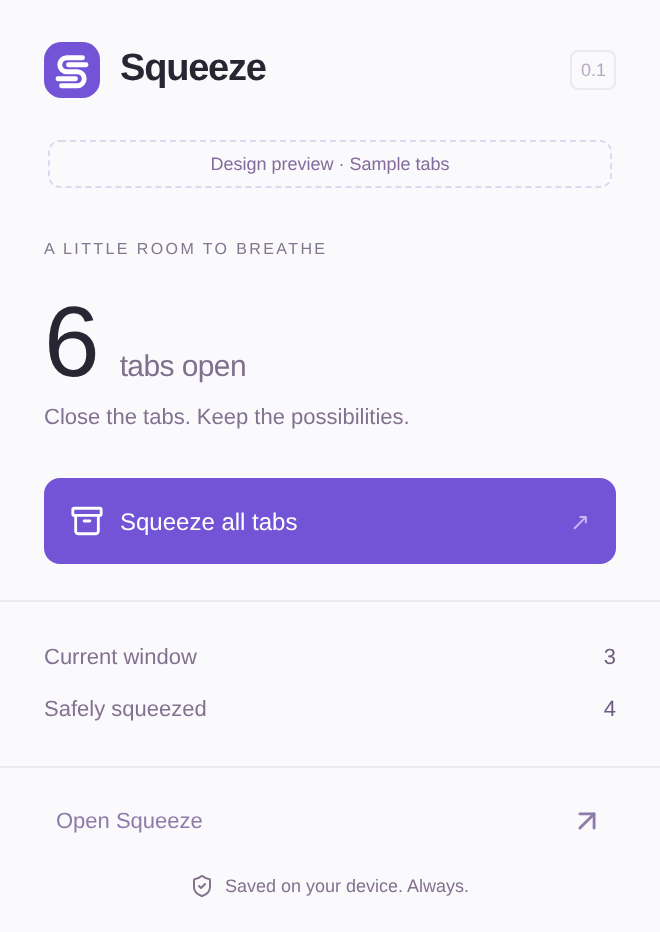
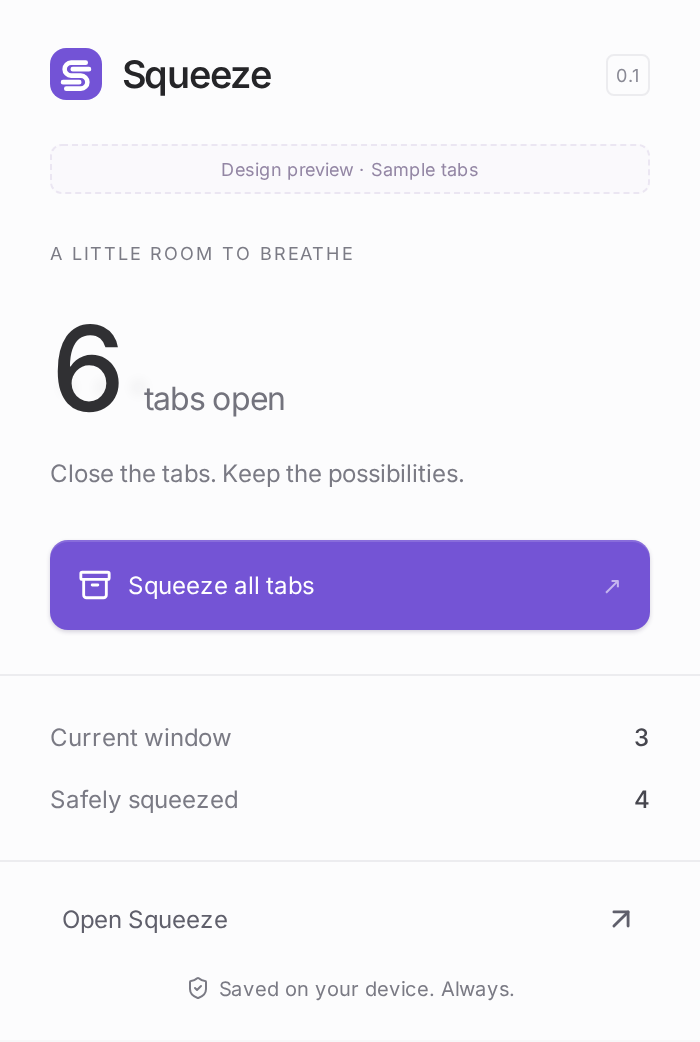
style(ui): refine Inter typography and purposeful motion

diff --git a/src/styles.css b/src/styles.css
@@ -1,3 +1,10 @@
+@font-face{font-family:'Inter Variable';src:url('./fonts/inter-latin-variable.woff2') format('woff2');font-weight:100 900;font-display:swap;font-style:normal}
 :root{font-family:Inter,-apple-system,BlinkMacSystemFont,"Segoe UI",sans-serif;color:#282632;background:#faf9fc;font-synthesis:none;font-size:13px;--purple:#7353d6;--ink:#272330;--muted:#94909f;--line:#ece9f1}*{box-sizing:border-box}body{margin:0}button,input,select{font:inherit}button{cursor:pointer;background:none;border:0;color:inherit;display:inline-flex;align-items:center;gap:8px}button:disabled{cursor:wait;opacity:.5}button:focus-visible,a:focus-visible,input:focus-visible,select:focus-visible{outline:2px solid #8c6ae8;outline-offset:3px}button:hover{color:var(--purple)}a{color:inherit;text-decoration:none}h1,h2,p{margin:0}svg{flex-shrink:0}.app{max-width:620px;min-height:100vh;margin:auto;display:flex;flex-direction:column;background:#faf9fc}.brand{padding:22px 24px 18px;display:flex;align-items:center;justify-content:space-between}.brand-name{display:flex;align-items:center;gap:10px;font-size:19px;font-weight:600;letter-spacing:-.6px}.icon-button{width:28px;height:28px;justify-content:center;border-radius:7px;color:#9b95a5;padding:0}.icon-button:hover{background:#efebf6}.search-box{margin:0 24px 20px;background:#f0edf5;border:1px solid #e9e4f0;border-radius:9px;height:38px;padding:0 11px;color:#9790a3;font-size:12px;text-align:left}.search-box span{flex:1}kbd{font-family:inherit;font-size:10px;border:1px solid #e1dce9;padding:2px 4px;border-radius:4px;color:#9d96aa}.nav{padding:0 16px}.nav-item{padding:11px 13px;width:100%;border-radius:8px;color:#77717f;font-size:12px;margin:1px 0;text-align:left}.nav-item span:nth-child(2){flex:1}.nav-item.active{background:#eee8fc;color:#7353c6}.nav-item .count{font-size:11px;opacity:.8}.category-section{margin:21px 24px 0;padding-bottom:19px;border-bottom:1px solid var(--line)}.section-label{display:flex;align-items:center;justify-content:space-between;color:#a7a0b1;letter-spacing:1px;font-size:9px}.category-chips{display:flex;flex-wrap:wrap;gap:7px;margin-top:5px}.chip{display:inline-flex;border:1px solid var(--line);padding:6px 9px;border-radius:7px;background:#fff;font-size:11px;gap:6px;color:#81788e}.chip.chosen{color:var(--purple);border-color:#d5c7f5;background:#f1ebfd}.dot{height:5px;width:5px;background:#b3a4cb;border-radius:50%}.workspace{padding:25px 24px 80px;flex:1}.workspace-title{display:flex;justify-content:space-between;align-items:center}.workspace h1{font-size:23px;letter-spacing:-.8px;font-weight:550;display:flex;gap:10px;align-items:center}.workspace h1 span{font-size:10px;padding:3px 6px;border-radius:5px;background:#efedf3;color:#9b92a9;font-weight:400;letter-spacing:0}.workspace-title p{font-size:11px;color:#a49bab;line-height:1.6;margin-top:6px}.toolbar{display:flex;gap:12px;align-items:center;margin:22px 0 17px}.inline-search{display:flex;align-items:center;gap:7px;flex:1;color:#aaa2b5}.inline-search input{border:0;background:none;min-width:0;width:100%;outline:none;color:var(--ink);font-size:11px}.inline-search input::placeholder{color:#aaa2b5}.text-button{color:#a195b1;font-size:11px;padding:3px 0}.date-label{font-size:9px;letter-spacing:1px;color:#b0a6bd;margin:16px 0 9px}.tab-list{display:flex;flex-direction:column;gap:7px}.tab-card{position:relative;display:flex;gap:9px;align-items:center;border:1px solid #eeeaf3;background:#fff;padding:14px 10px;border-radius:10px;min-height:68px;box-shadow:0 2px 4px #3b244303;transition:border-color .15s,box-shadow .15s}.tab-card:hover{border-color:#ded5ed;box-shadow:0 4px 12px #35224d07}.tab-card.selected{border-color:#c6b2ee;background:#faf7ff}.select-tab{width:13px;height:13px;border:1px solid #dfdae7;border-radius:4px;padding:0;color:#fff;justify-content:center;flex-shrink:0}.selected .select-tab{background:#8463d5;border-color:#8463d5}.favicon{width:30px;height:30px;border-radius:9px;display:grid;place-items:center;background:#f3f0f7;color:#8e80a5;font-size:12px;font-weight:500;flex-shrink:0}.tab-details{min-width:0;flex:1}.tab-title{font-size:11px;display:block;max-width:100%;text-overflow:ellipsis;white-space:nowrap;overflow:hidden;font-weight:500;padding:0;text-align:left}.tab-meta{display:flex;align-items:center;gap:5px;margin-top:6px;font-size:9px;color:#aaa1b4;min-width:0}.tab-meta span{overflow:hidden;white-space:nowrap;text-overflow:ellipsis}.tab-meta .meta-dot{color:#c9c1d2;flex-shrink:0}.hover-action{opacity:0}.tab-card:hover .hover-action,.hover-action:focus-visible{opacity:1}.starred{color:#aa8a54}.card-menu{position:absolute;right:7px;top:45px;width:220px;z-index:20;border:1px solid #e9e0f2;background:white;padding:7px;border-radius:10px;box-shadow:0 12px 30px #2812421c}.card-menu button,.card-menu a{display:flex;padding:9px;width:100%;text-align:left;font-size:11px;border-radius:5px}.card-menu label{display:flex;justify-content:space-between;align-items:center;font-size:10px;padding:8px}.card-menu select{max-width:130px;font-size:10px;border:1px solid var(--line);padding:4px;background:white;border-radius:5px}.menu-head{display:flex;align-items:center;justify-content:space-between;padding:2px 8px;color:#b1a5bf;font-size:9px}.menu-head button{width:auto}.bottom{display:flex;gap:6px;align-items:center;padding:16px 24px;background:#faf9fc;border-top:1px solid var(--line);font-size:9px;color:#b4acbf}.footer-right{margin-left:auto;font-size:9px;color:#c0b9c8}.local-dot{width:4px;height:4px;background:#a797bd;border-radius:50%}.selection-bar{position:fixed;bottom:18px;left:50%;transform:translateX(-50%);display:flex;align-items:center;gap:12px;min-width:280px;max-width:calc(100% - 32px);background:#fff;border:1px solid #e9e0f6;padding:8px 9px 8px 16px;border-radius:12px;box-shadow:0 6px 35px #3721531a;font-size:11px;z-index:25}.selection-bar>span{flex:1;color:#92869f;white-space:nowrap}.primary{background:var(--purple);color:#fff;border-radius:8px;padding:10px 14px;font-size:11px;justify-content:center}.primary:hover{background:#6546c3;color:white}.notice{display:flex;align-items:center;gap:6px;border-radius:8px;padding:10px;margin:10px 0;font-size:11px;color:#76608e;background:#efe9f7;line-height:1.6}.notice button{margin-left:auto;color:#7650c6}.notice.error{background:#faedf0;color:#a14d61}.empty{text-align:center;padding:50px 22px}.empty-mark{display:grid;place-items:center;margin:auto auto 20px;width:58px;height:58px;border-radius:18px;background:#f0eafa}.empty h2{font-size:17px;font-weight:500;letter-spacing:-.4px}.empty p{font-size:11px;color:#aaa1b4;line-height:1.8;max-width:235px;margin:10px auto 16px}.empty button{margin:auto}.window-actions{display:flex;gap:8px;flex-wrap:wrap}.sessions{display:flex;flex-direction:column;gap:9px}.session-card{width:100%;padding:19px 15px;text-align:left;background:white;border:1px solid var(--line);border-radius:10px;gap:12px;color:#9988ad}.session-card span{flex:1}.session-card strong{font-size:12px;font-weight:500;color:#4c4358;display:block}.session-card small{font-size:10px;display:block;color:#b0a4bc;margin-top:7px}.create-session{justify-content:center;font-size:11px;padding:16px;border:1px dashed #ddd5e8;border-radius:9px;color:#aa9cb8}.overlay{position:fixed;inset:0;background:#20142a50;backdrop-filter:blur(5px);z-index:50;display:flex;justify-content:center;align-items:flex-start;padding:90px 18px 20px;overflow:auto}.palette,.dialog{background:#fff;border-radius:15px;width:100%;max-width:390px;border:1px solid #e8e0f0;box-shadow:0 20px 80px #26173535}.palette-search{display:flex;align-items:center;gap:9px;padding:18px 16px;font-size:12px;color:#8f829f;border-bottom:1px solid var(--line)}.palette-search span{flex:1}.palette-item{display:flex;justify-content:space-between;padding:13px 17px;width:calc(100% - 12px);margin:3px 6px;border-radius:7px;font-size:12px;color:#72617f}.palette-item:hover{background:#f1ecf8}.palette-footer{padding:13px 17px;border-top:1px solid var(--line);font-size:9px;color:#b3a8bf}.dialog{padding:23px}.dialog h2{font-size:20px;font-weight:500;margin:12px 0}.dialog p{font-size:12px;color:#a298ac;line-height:1.7;margin-bottom:15px}.dialog input{width:100%;border:1px solid var(--line);border-radius:8px;padding:11px;color:#665571}.dialog-actions{display:flex;justify-content:flex-end;gap:8px;margin-top:20px;font-size:11px}.dialog-actions .danger{margin-right:auto;color:#b3687f}.preview{text-align:center;margin:0 24px 13px;border:1px dashed #e1d6ef;border-radius:6px;padding:6px;color:#a898b7;font-size:9px}.popup{width:330px;padding-bottom:17px;background:#faf9fc}.popup .brand{padding:21px 22px}.version{font-size:9px;color:#b4a9c1;padding:4px;border:1px solid var(--line);border-radius:4px}.popup-hero{padding:8px 22px 18px}.eyebrow{font-size:8px;letter-spacing:1.2px;color:#b2a6bd}.popup-hero h1{font-size:50px;letter-spacing:-2px;font-weight:500;margin-top:12px;display:flex;gap:12px;align-items:baseline}.popup-hero h1 span{font-size:15px;letter-spacing:-.3px;font-weight:400;color:#a398b1}.popup-hero p{font-size:11px;color:#ab9fb8;margin-top:3px}.squeeze-main{width:100%;margin-top:24px;padding:13px;font-size:12px;justify-content:flex-start}.squeeze-main span{margin-left:auto;color:#c5b6ef}.popup-stats{padding:15px 22px;border-top:1px solid var(--line);border-bottom:1px solid var(--line)}.popup-stats div{display:flex;justify-content:space-between;align-items:center;font-size:11px;color:#a395b1;padding:7px 0}.popup-stats strong{font-size:11px;font-weight:500;color:#6c5d80}.open-panel{width:calc(100% - 44px);margin:17px 22px;justify-content:space-between;font-size:11px;color:#8e7aab}.popup-footer{display:flex;justify-content:center;align-items:center;gap:5px;font-size:9px;color:#b8abc6}.popup .notice{margin:10px 22px}.loading{display:flex;align-items:center;justify-content:center;padding:40px;text-align:center;gap:15px}.loading p{font-size:12px;color:#9d91ab}@media(max-width:380px){.brand{padding:20px}.workspace{padding:24px 18px 90px}.category-section{margin-left:20px;margin-right:20px}.search-box{margin-left:20px;margin-right:20px}.tab-card{gap:7px;padding:13px 8px}.tab-meta{font-size:9px}.footer-right{font-size:8px}}@media(prefers-reduced-motion:reduce){*,*::before,*::after{animation:none!important;transition:none!important;scroll-behavior:auto!important}}
 /* Secondary text stays quiet without becoming hard to read. */
 .workspace-title p,.tab-meta,.empty p,.dialog p{color:#776d83}.section-label,.date-label,.eyebrow{color:#83768f}.search-box,.inline-search,.inline-search input::placeholder{color:#85778f}.bottom,.footer-right,.popup-footer,.popup-hero p,.popup-stats div{color:#82718f}.preview{color:#846b9b}.popup-hero h1 span{color:#80708e}.text-button{color:#7f6b95}.tab-title{font-size:12px}.tab-meta{font-size:10px}
+/* Motion study: neutral foundations, bundled Inter, short purposeful transitions. */
+:root{font-family:'Inter Variable',Inter,-apple-system,BlinkMacSystemFont,'Segoe UI',sans-serif;background:#f7f7f8;color:#252528;--purple:#7454d5;--ink:#252528;--line:#ececef;--muted:#75757d}
+.app,.popup{background:#fcfcfd}.brand-name{font-weight:560;letter-spacing:-.8px}.search-box{background:#f5f5f7;border-color:#eeeeef;color:#73737c}.nav-item{color:#707078}.nav-item.active{background:#f0ebfa}.workspace-title p,.tab-meta,.empty p,.dialog p{color:#777780}.tab-card{border-color:#ececee;box-shadow:0 1px 2px #00000003}.tab-card:hover{border-color:#dbdbe2;box-shadow:0 3px 8px #00000004}.favicon{background:#f4f3f6;color:#6b627b}.section-label,.date-label,.eyebrow{color:#7b7b85}.chip{color:#73737d;border-color:#e8e8ec}.bottom,.footer-right,.popup-footer,.popup-hero p,.popup-stats div{color:#7a7a84}.primary{box-shadow:0 1px 2px #32225430,inset 0 1px 0 #ffffff25;transition:transform 160ms cubic-bezier(.2,.8,.2,1),background 160ms ease}.primary:active{transform:scale(.98)}.primary svg{transition:transform 200ms cubic-bezier(.2,.8,.2,1)}.primary:hover svg{transform:translateY(-1px)}.icon-button{color:#92929c}.preview{background:#faf9fc;border-color:#ebe6f2;color:#9386a4}.popup{width:350px;padding-bottom:20px}.popup .brand{padding:24px 25px 22px}.popup-hero{padding:8px 25px 22px}.popup-hero h1{font-size:59px;letter-spacing:-3px;font-weight:480;line-height:1.15;margin-top:17px;font-variant-numeric:tabular-nums}.popup-hero h1 span{font-size:16px;letter-spacing:-.45px;color:#73737d}.popup-hero p{font-size:12px;line-height:1.6;margin-top:9px}.squeeze-main{margin-top:24px;padding:14px;font-size:12px;border-radius:9px}.popup-stats{padding:15px 25px}.popup-stats div{padding:8px 0;font-size:12px}.popup-stats strong{color:#46464e;font-size:12px}.open-panel{margin:19px 25px;width:calc(100% - 50px);font-size:12px;color:#5f5f6b}.popup-footer{font-size:10px}.eyebrow{letter-spacing:1px;font-size:9px}.version{color:#898994}.popup .preview{margin:0 25px 12px}.popup .notice{margin:12px 25px}.popup .brand svg{width:26px;height:26px}
+/* Full app lives in its own Chrome tab; compact panel is an optional second surface. */
+.dashboard-body{background:#f5f5f7}.dashboard{display:grid;grid-template-columns:230px minmax(0,1fr);grid-template-rows:80px 56px 1fr auto;max-width:1280px;min-height:100vh;margin:0 auto;background:#fff;position:relative}.dashboard .brand{grid-column:1;grid-row:1;padding:28px 25px 23px;border-right:1px solid var(--line)}.dashboard .preview{grid-column:2;grid-row:1;justify-self:end;align-self:center;margin:0 38px;padding:6px 10px}.dashboard .search-box{grid-column:1;grid-row:2;margin:0 18px 18px;font-size:11px}.dashboard .nav{grid-column:1;grid-row:3;align-self:start;padding:4px 14px}.dashboard .nav-item{padding:12px 11px;font-size:12px}.dashboard .category-section{grid-column:1;grid-row:3;align-self:start;margin:255px 23px 0;border:0}.dashboard .category-chips{flex-direction:column;align-items:flex-start;gap:8px;margin-top:14px}.dashboard .category-chips .chip{border:0;background:none;font-size:12px;padding:7px 4px}.dashboard .workspace{grid-column:2;grid-row:1/4;border-left:1px solid var(--line);padding:64px 52px 120px}.dashboard .workspace-title{margin-top:28px}.dashboard .workspace h1{font-size:32px;letter-spacing:-1.2px;font-weight:520}.dashboard .workspace-title p{font-size:13px;margin-top:10px}.dashboard .toolbar{margin:30px 0 20px;padding:11px 0;border-bottom:1px solid var(--line)}.dashboard .inline-search input{font-size:12px}.dashboard .text-button{font-size:12px}.dashboard .date-label{margin:22px 0 13px;font-size:10px}.dashboard .tab-list{gap:7px}.dashboard .tab-card{padding:17px 16px;border-radius:11px;gap:13px}.dashboard .tab-title{font-size:13px}.dashboard .tab-meta{font-size:11px;margin-top:7px}.dashboard .favicon{width:36px;height:36px;border-radius:10px}.dashboard .tab-card .select-tab{width:15px;height:15px}.dashboard .bottom{grid-column:1/3;grid-row:4;background:#fff;padding:21px 26px;font-size:10px;border-top:1px solid var(--line)}.dashboard .selection-bar{bottom:25px}.dashboard .session-card{padding:23px 20px}.dashboard .session-card strong{font-size:14px}.dashboard .empty{padding-top:100px}.dashboard .palette{max-width:480px}.dashboard .overlay{padding-top:150px}.dashboard .window-actions .chip{font-size:12px}.dashboard .tab-list{max-width:820px}.dashboard .workspace-title,.dashboard .toolbar{max-width:820px}@media(min-width:1500px){.dashboard{margin:35px auto;border:1px solid #e7e7ec;border-radius:16px;overflow:hidden;min-height:calc(100vh - 70px)}}@media(max-width:760px){.dashboard{display:flex;max-width:620px}.dashboard .brand{border:0;padding:22px 24px}.dashboard .preview{margin:0 24px 12px}.dashboard .workspace{padding:25px 24px 100px;border:0}.dashboard .workspace-title{margin-top:0}.dashboard .workspace h1{font-size:25px}.dashboard .category-section{margin:20px 24px 0}.dashboard .category-chips{flex-direction:row;margin-top:7px}.dashboard .search-box{margin:0 24px 16px}.dashboard .nav{padding:0 16px}.dashboard .workspace-title p{font-size:12px}.dashboard .tab-card{padding:14px 10px;gap:9px}.dashboard .tab-meta{font-size:10px}.dashboard .toolbar{margin:20px 0 15px}.dashboard .tab-title{font-size:12px}}
+.popup-hero h1 .tab-number{font:inherit;letter-spacing:inherit;color:var(--ink);display:inline-block}.primary:disabled{opacity:.6}button,a{touch-action:manipulation}@media(prefers-reduced-motion:reduce){.primary:active{transform:none}.primary:hover svg{transform:none}}

diff --git a/src/popup.tsx b/src/popup.tsx
@@ -1,9 +1,10 @@
 import {useEffect,useState} from 'react';
+import {AnimatePresence,motion,useReducedMotion} from 'motion/react';
 import {createRoot} from 'react-dom/client';
 import {Archive,ArrowUpRight,ShieldCheck} from 'lucide-react';
 import {Mark} from './components/Mark';
-import {openPanel,preview,request} from './lib/client';
+import {openApp,preview,request} from './lib/client';
 import type {Overview,Result} from './types';
 import './styles.css';
-function Popup(){const[d,setD]=useState<Overview>();const[busy,setBusy]=useState(false);const[msg,setMsg]=useState('');useEffect(()=>{void request<Overview>({type:'list'}).then(setD).catch(e=>setMsg(e.message))},[]);async function squeeze(){if(!d)return;setBusy(true);try{const r=await request<Result>({type:'squeeze',tabIds:d.tabs.map(t=>t.id)});setMsg(r.message);setD(await request<Overview>({type:'list'}))}catch(e){setMsg((e as Error).message)}finally{setBusy(false)}}return <main className="popup"><header className="brand"><span className="brand-name"><Mark/>Squeeze</span><span className="version">0.1</span></header>{preview&&<div className="preview">Design preview · Sample tabs</div>}<section className="popup-hero"><span className="eyebrow">A LITTLE ROOM TO BREATHE</span><h1>{d?.tabs.length??'…'}<span>tabs open</span></h1><p>Close the tabs. Keep the possibilities.</p><button className="primary squeeze-main" disabled={busy||!d?.tabs.length} onClick={()=>void squeeze()}><Archive size={17}/>{busy?'Saving, then closing...':'Squeeze all tabs'}<span>↗</span></button></section><div className="popup-stats"><div><span>Current window</span><strong>{d?.tabs.filter(t=>t.windowId===d.currentWindowId).length??'…'}</strong></div><div><span>Safely squeezed</span><strong>{d?.store.parked.length??'…'}</strong></div></div>{msg&&<div className="notice" role="status">{msg}</div>}<button className="open-panel" onClick={()=>void openPanel().catch(e=>setMsg(e.message))}>Open Squeeze <ArrowUpRight size={17}/></button><footer className="popup-footer"><ShieldCheck size={12}/> Saved on your device. Always.</footer></main>}
+function Popup(){const reduced=useReducedMotion();const[d,setD]=useState<Overview>();const[busy,setBusy]=useState(false);const[msg,setMsg]=useState('');useEffect(()=>{void request<Overview>({type:'list'}).then(setD).catch(e=>setMsg(e.message))},[]);async function squeeze(){if(!d)return;setBusy(true);try{const r=await request<Result>({type:'squeeze',tabIds:d.tabs.map(t=>t.id)});setMsg(r.message);setD(await request<Overview>({type:'list'}))}catch(e){setMsg((e as Error).message)}finally{setBusy(false)}}return <main className="popup"><header className="brand"><span className="brand-name"><Mark/>Squeeze</span><span className="version">0.1</span></header>{preview&&<div className="preview">Design preview · Sample tabs</div>}<section className="popup-hero"><span className="eyebrow">A LITTLE ROOM TO BREATHE</span><h1><AnimatePresence mode="popLayout" initial={false}><motion.span className="tab-number" key={d?.tabs.length} initial={{opacity:0,y:reduced?0:8,filter:reduced?'none':'blur(3px)'}} animate={{opacity:1,y:0,filter:'blur(0px)'}} exit={{opacity:0,y:reduced?0:-8,filter:reduced?'none':'blur(3px)'}} transition={{duration:reduced?0:.18,ease:[.2,.8,.2,1]}}>{d?.tabs.length??'…'}</motion.span></AnimatePresence><span>tabs open</span></h1><p>Close the tabs. Keep the possibilities.</p><button className="primary squeeze-main" disabled={busy||!d?.tabs.length} onClick={()=>void squeeze()}><Archive size={17}/>{busy?'Saving, then closing...':'Squeeze all tabs'}<span>↗</span></button></section><div className="popup-stats"><div><span>Current window</span><strong>{d?.tabs.filter(t=>t.windowId===d.currentWindowId).length??'…'}</strong></div><div><span>Safely squeezed</span><strong>{d?.store.parked.length??'…'}</strong></div></div><AnimatePresence>{msg&&<motion.div className="notice" role="status" initial={{height:0,opacity:0}} animate={{height:'auto',opacity:1}} exit={{height:0,opacity:0}} transition={{duration:reduced?0:.18}}>{msg}</motion.div>}</AnimatePresence><button className="open-panel" onClick={()=>void openApp().catch(e=>setMsg(e.message))}>Open Squeeze <ArrowUpRight size={17}/></button><footer className="popup-footer"><ShieldCheck size={12}/> Saved on your device. Always.</footer></main>}
 createRoot(document.getElementById('root')!).render(<Popup/>);

diff --git a/README.md b/README.md
@@ -15,7 +15,7 @@ npm run build
 
 Open `chrome://extensions`, enable **Developer mode**, choose **Load unpacked**, and select `dist/`.
 
-Click the toolbar icon, then **Open Squeeze** for the Side Panel. Use ordinary test tabs first. URLs and titles are saved, not unsaved forms, page history, authentication state, or scroll positions.
+Click the toolbar icon, then **Open Squeeze** for the full management app in its own Chrome tab. The Side Panel remains an optional compact view. Use ordinary test tabs first. URLs and titles are saved, not unsaved forms, page history, authentication state, or scroll positions.
 
 ## Included
 - Tab discovery, selection, single/bulk/current-window/group parking.
@@ -23,7 +23,7 @@ Click the toolbar icon, then **Open Squeeze** for the Side Panel. Use ordinary t
 - Reopen saved tabs without removing the saved copy; pinned state and group metadata.
 - Categories, sessions, stars, local search, recently squeezed list.
 - Best-effort recently closed record for observed regular web tabs (latest 100).
-- Side Panel, compact popup, command palette, keyboard shortcuts, context menu.
+- Full app tab, optional Side Panel, compact popup, command palette, keyboard shortcuts, context menu.
 - Delete saved records with undo in the current panel session.
 
 Only `http:` and `https:` tabs are supported for parking. Incognito and internal browser tabs stay open. Tab groups are restored where Chrome supports them. Reopening to the original window is not implemented yet.
@@ -45,7 +45,7 @@ UI previews use labeled sample data. `npm run dev` does **not** control live bro
 
 Real Chrome integration covers worker loading, tab discovery, save/close, reopen, and persistence across full browser restart. Unit tests cover persistence failure, read-back failure, URL navigation race, partial failures, concurrent requests, safe schemes, pin/order/group restoration, and local search.
 
-![Side Panel, sample-data preview](docs/screenshots/sidepanel.png)
+![Full app, sample-data preview](docs/screenshots/full-app.png)
 ![Popup, sample-data preview](docs/screenshots/popup.png)
 
 ## Spec-driven workflow
@@ -58,3 +58,6 @@ Uninstalling Squeeze removes its local extension data. Export/backup is not impl
 
 ## Scope
 This is an initial testable build, not a Chrome Web Store release. Full onboarding, backup/import/export, advanced window restoration, favicon rendering, hover previews, list grouping by date/domain, and complete accessibility audits remain follow-up work.
+
+## Design
+Typography and motion direction studied from the public examples at https://animations.dev. Inter is bundled locally under SIL OFL (docs/licenses/Inter-OFL.txt). No remote font, paid course content, or site assets are loaded by the extension.

diff --git a/specs/001-tab-parking/spec.md b/specs/001-tab-parking/spec.md
@@ -50,7 +50,7 @@ A small popup opens the main Side Panel. The user can use a command palette, sho
 - **FR-006**: Explicit delete offers undo. No automatic deletion of parked records.
 - **FR-007**: Search and organization are local and deterministic; categories and sessions are user-created.
 - **FR-008**: Provide recently squeezed and best-effort recently closed views without promising complete browser history.
-- **FR-009**: Side Panel is primary; popup is a small entry point. No external scripts, fonts, crawlers, analytics, or accounts.
+- **FR-009**: Full Chrome app tab is primary (user revision); optional Side Panel and popup is a small entry point. No external scripts, fonts, crawlers, analytics, or accounts.
 - **FR-010**: Provide status feedback and truthful partial-failure messages. Unsupported tabs remain open.
 - **FR-011**: Use reduced-motion preferences, named controls, visible focus, keyboard actions, and responsive spacing.
 - **FR-012**: Local browsing metadata must never be transmitted to a server. No incognito capture.
@@ -67,6 +67,6 @@ SavedTab, ChromeGroupSnapshot, Category, Session, Settings, ObservedTab, UndoBat
 
 ## Assumptions
 - Chrome desktop 116+; no mobile browser support. Only http/https tabs are parked in this release.
-- Side Panel is implemented early despite its product P2 priority because it is the requested primary surface.
+- User revision: full management app opens in a Chrome tab, popup is quick actions only; Side Panel remains optional.
 - First delivery prioritizes product P0 with selected organization/UX features. P3 is an explicit follow-up, not silently claimed complete.
 - Recently closed records retain the latest 100 observed closures; parked records have no automatic expiry.

diff --git a/docs/publish-from-laptop.md b/docs/publish-from-laptop.md
@@ -1,0 +1,35 @@
+# Publish from your laptop
+
+Prerequisites: Git, GitHub CLI (`gh`), and an authenticated GitHub account with permission to create `raghav4/squeeze`. Run `gh auth login` yourself if needed. Never put a token in source or a command copied into a public thread.
+
+Unzip `squeeze-repo-with-history.zip`, then open a terminal in its `squeeze/` folder. It includes `.git` and six initial focused commits plus the design revision. If your unzip app hides dotfolders, it is fine as long as they are preserved.
+
+Check your GitHub identity:
+
+```sh
+gh api user --jq .login
+```
+
+It must be `raghav4`. Do not continue under another account.
+
+Create a new **public** repository and push the baseline and feature branch:
+
+```sh
+gh repo create raghav4/squeeze --public --source=. --remote=origin
+git push -u origin main
+git push -u origin 001-tab-parking
+gh pr create --repo raghav4/squeeze --base main --head 001-tab-parking --title "feat: ship local-first Squeeze tab parking MVP" --body-file docs/pr-core.md
+```
+
+If the repository already exists, stop before `gh repo create`; check ownership and contents, then add its actual clone URL as the remote instead. Do not force push over existing work.
+
+Open the resulting PR in a desktop browser. Upload the two screenshots from `docs/screenshots/full-app.png` and `docs/screenshots/popup.png` into the PR description so GitHub creates valid image attachment URLs. The draft description includes the summary, tests, caveats and footer.
+
+Review or merge it:
+
+```sh
+gh pr view --repo raghav4/squeeze --web
+gh pr merge --repo raghav4/squeeze --merge
+```
+
+`--merge` preserves the individual focused commits. This does not publish anything to the Chrome Web Store.

diff --git a/.specify/memory/constitution.md b/.specify/memory/constitution.md
@@ -6,7 +6,7 @@ A tab must never be closed until its complete saved record has been persisted an
 ### II. Local, deterministic, private
 No backend, account, network service, analytics, AI, page scraping, or automatic deletion. Browser metadata is sufficient. Incognito data is excluded. Every organization choice is explicit or domain-based.
 ### III. Calm, reversible UX
-The primary surface is a polished Side Panel. Purple is restrained. Keyboard focus, readable labels, reduced motion, and honest error states are required. Destructive saved-record removal offers undo.
+The primary surface is a polished full app in a Chrome tab; Side Panel is optional. Purple is restrained. Keyboard focus, readable labels, reduced motion, and honest error states are required. Destructive saved-record removal offers undo.
 ### IV. Tests before trust
 Storage failures, partial closes, concurrent requests, navigation races, and restart persistence must be tested. Real Chrome integration checks are separate from browser previews and API mocks.
 ### V. Focused delivery
@@ -18,4 +18,4 @@ Type checking, automated tests, production build, privacy review, and rendered U
 ## Governance
 Amendments require a documented rationale and a version bump. Each change is checked against these principles and its feature specification. Violations must be fixed or explicitly accepted before release.
 
-**Version**: 1.0.0 | **Ratified**: 2026-10-03 | **Last Amended**: 2026-10-03
+**Version**: 1.1.0 | **Ratified**: 2026-10-03 | **Last Amended**: 2026-10-03

diff --git a/docs/pr-core.md b/docs/pr-core.md
@@ -1,14 +1,14 @@
 # feat: ship local-first Squeeze tab parking MVP
 
 ## Summary
-A polished MV3 Chrome extension for closing tabs without losing them. Save, verify, then close. The Side Panel is the main surface; a compact popup is the entry point.
+A polished MV3 Chrome extension for closing tabs without losing them. Save, verify, then close. The full app tab is the main surface, with an optional Side Panel; a compact popup is the entry point.
 
 ## Changes
 - Actual GitHub Spec Kit scaffold, constitution, spec, research, plan, contracts and tasks.
 - Serialized local state engine, persistence read-back, URL race check, safe URL handling.
 - Single/multiple/current-window/group parking, reopen ordering, pinned state, Chrome groups.
 - Categories, sessions, stars, text search, delete/undo, best-effort recent-close records.
-- Side Panel, lightweight popup, command palette, shortcuts and minimal context menu.
+- Full app tab, optional Side Panel, quick-action popup, command palette, shortcuts and minimal context menu.
 - CI, test scripts, local-only privacy documentation and honest follow-up list.
 
 ## Verification
@@ -22,7 +22,7 @@ A polished MV3 Chrome extension for closing tabs without losing them. Save, veri
 ## Screenshots
 These two renders use **labeled sample data**, not user browsing history.
 
-![Side Panel](screenshots/sidepanel.png)
+![Full app](screenshots/full-app.png)
 ![Popup](screenshots/popup.png)
 
 ## Limits

diff --git a/specs/001-tab-parking/convergence.md b/specs/001-tab-parking/convergence.md
@@ -4,7 +4,7 @@ Status: P0 implemented and locally tested. Partial P1/P2. Not full product conve
 
 ## Passed
 - 12 unit tests, strict TypeScript, production Vite + worker build.
-- Real Chromium extension worker, discovery, squeeze 2 real web tabs, reopen 2, retained records after full browser restart.
+- Real Chromium full app tab, popup opens app tab, extension worker, discovery, squeeze 2 real web tabs, reopen 2, retained records after full browser restart.
 - Rendered panel/popup pixels inspected. Improved secondary-text contrast and re-rendered. No 360px horizontal overflow.
 - UI selection/squeeze, popup squeeze, command palette open/close.
 - Three searches of 1,000 records took 11ms on the initial machine run, under 100ms target.
@@ -22,3 +22,6 @@ Status: P0 implemented and locally tested. Partial P1/P2. Not full product conve
 - Full 47-tab end-to-end performance outcome not yet measured.
 
 No Web Store publishing performed. No browser history or private user data in screenshot fixtures.
+
+## User-directed design revision
+Full app in a Chrome tab is now primary. Optional Side Panel remains. Popup stays quick actions. Typography is locally bundled Inter under SIL OFL, inspired by inspected public animations.dev examples. Count/result/press transitions are short and respect reduced motion. Full-app and popup renders re-inspected.

diff --git a/specs/001-tab-parking/plan.md b/specs/001-tab-parking/plan.md
@@ -2,7 +2,7 @@
 **Branch**: `001-tab-parking` | **Date**: 2026-10-03 | **Spec**: [spec.md](spec.md)
 
 ## Summary
-TypeScript/React MV3 extension. The worker is the sole durable state writer. Interfaces send typed messages. Parking is snapshot -> storage write -> read-back -> live URL recheck -> close, with partial failures reported. UI uses local CSS, icons, restrained spring transitions.
+TypeScript/React MV3 extension. The worker is the sole durable state writer. Full app tab, compact popup and optional Side Panel send typed messages. Parking is snapshot -> storage write -> read-back -> live URL recheck -> close, with partial failures reported. UI uses locally bundled Inter, CSS, icons, restrained spring transitions.
 
 ## Technical Context
 **Language/Version**: TypeScript 5, React 19, Chrome 116+.

diff --git a/specs/001-tab-parking/quickstart.md b/specs/001-tab-parking/quickstart.md
@@ -4,7 +4,7 @@ npm test
 npm run build
 
 Chrome: chrome://extensions -> Developer mode -> Load unpacked -> choose dist.
-Open ordinary test tabs (no unsaved form work), pin one, group two, and open the Side Panel from the popup. Squeeze selections, restart Chrome, reopen records, verify URLs/pins/groups. Repeat with simulated failed storage in automated tests.
+Open ordinary test tabs (no unsaved form work), pin one, group two, and open the full app tab from the popup. Squeeze selections, restart Chrome, reopen records, verify URLs/pins/groups. Repeat with simulated failed storage in automated tests.
 
 npm run dev provides a clearly labeled fixture-only preview, not live Chrome tabs.
 No Web Store publishing is configured. No browser metadata leaves the device.
